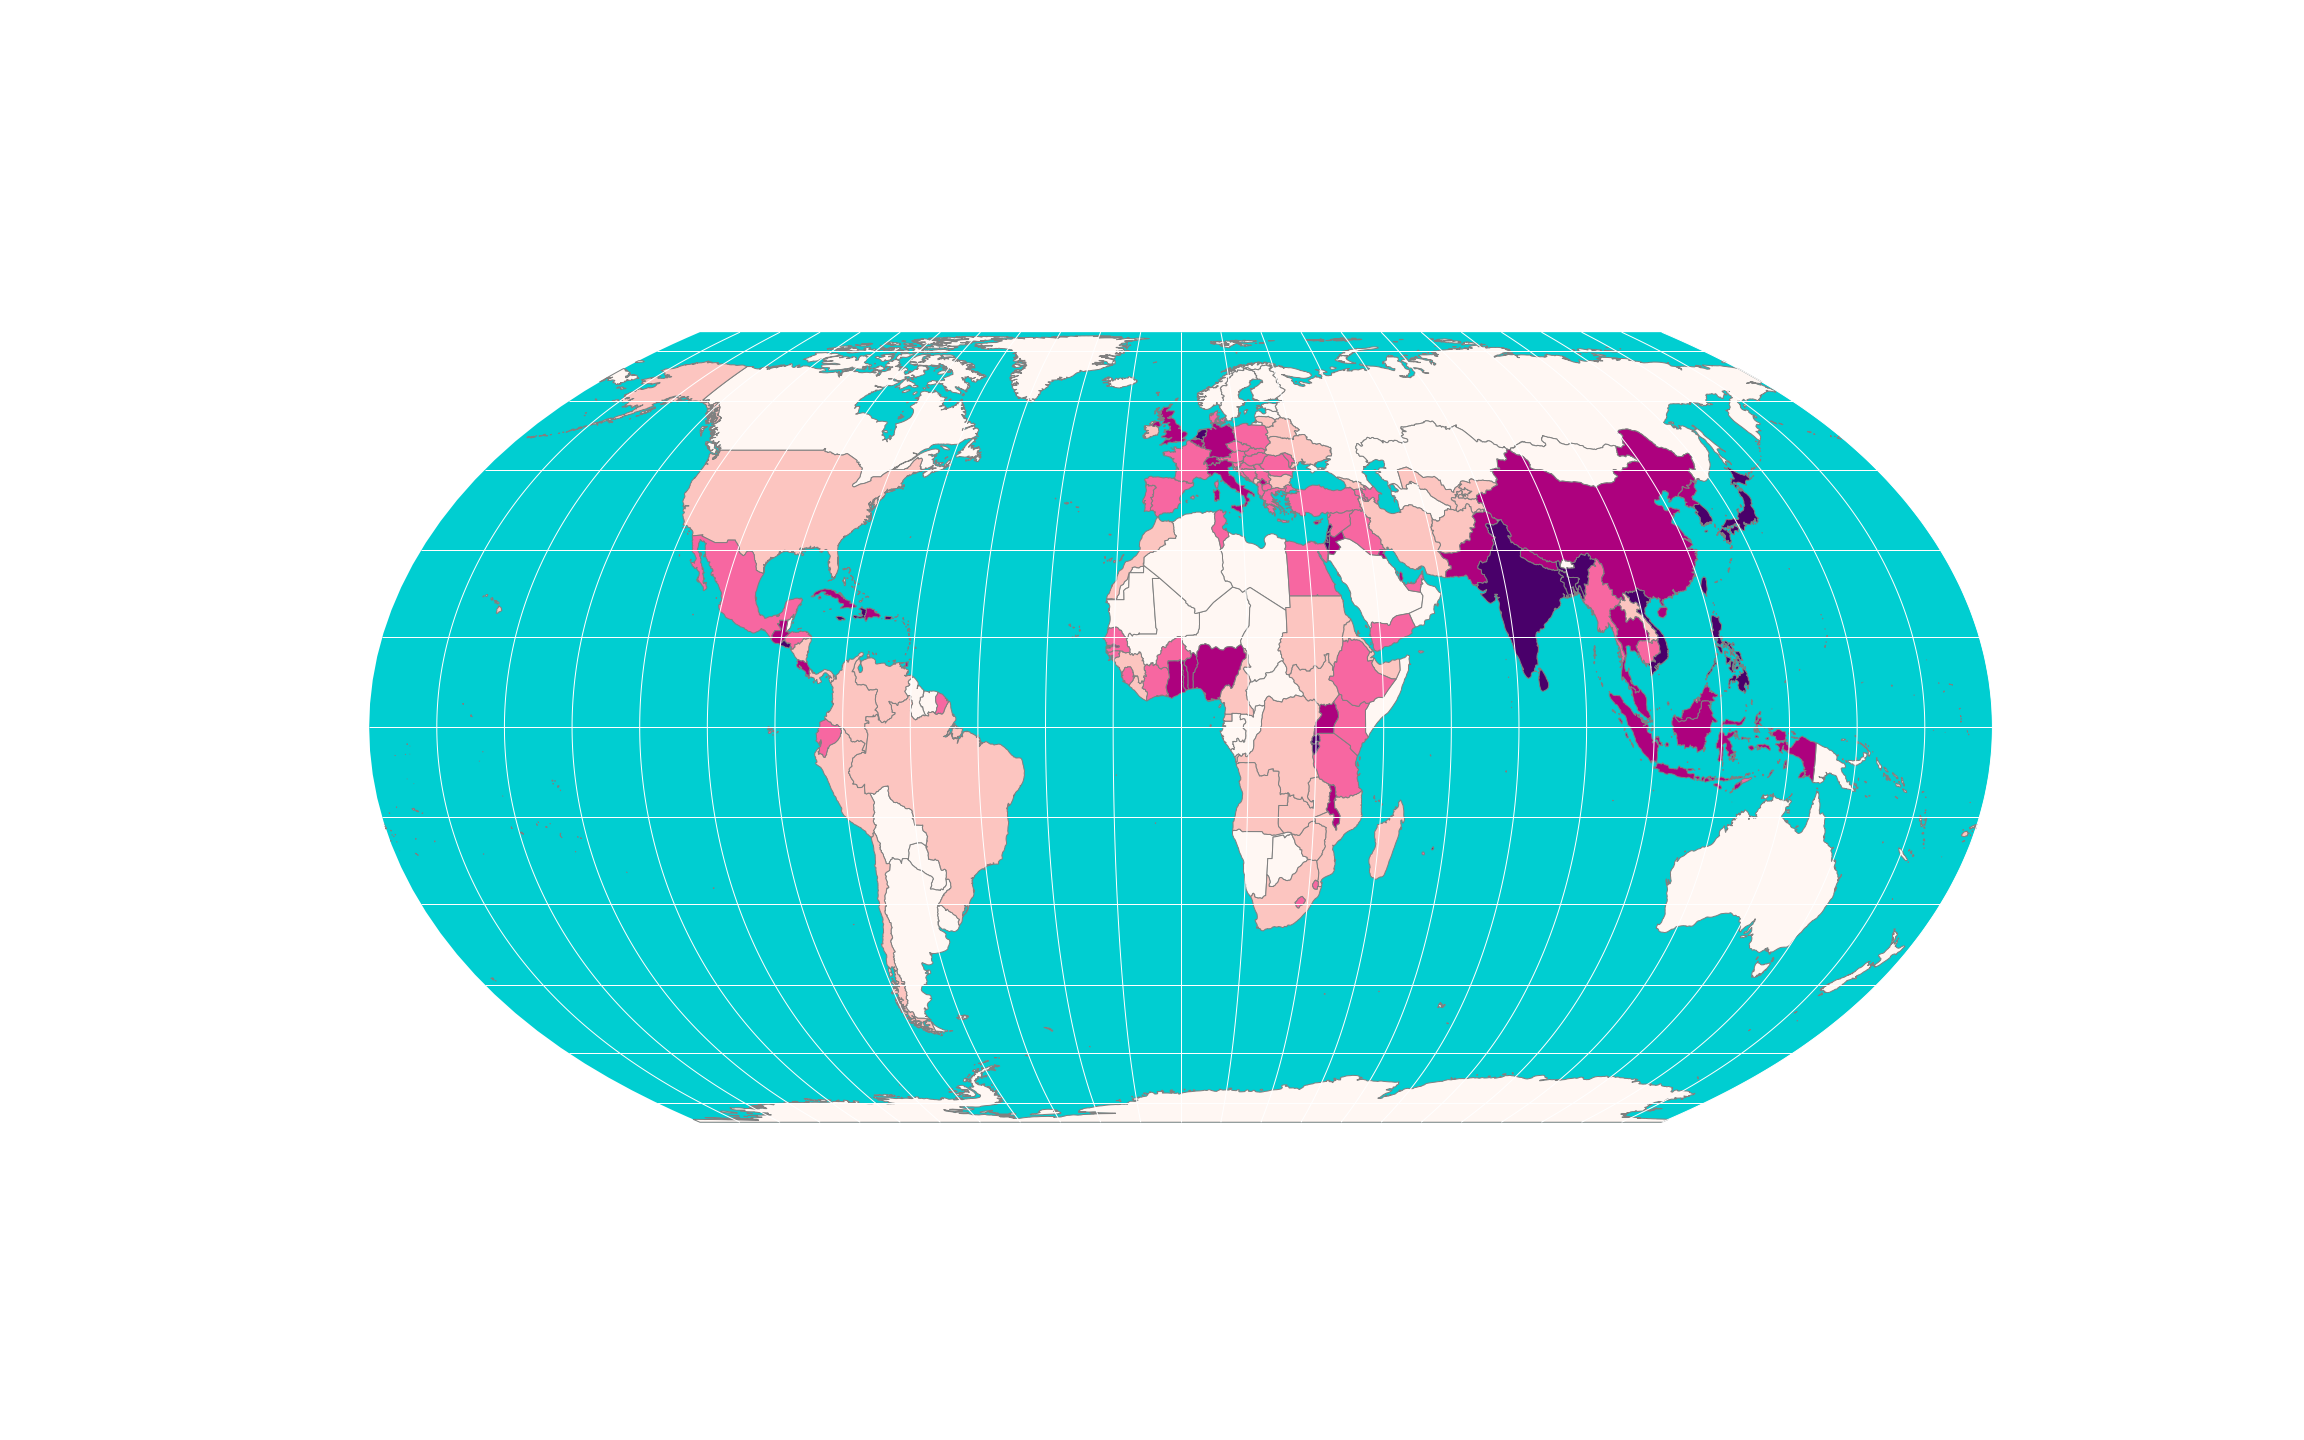
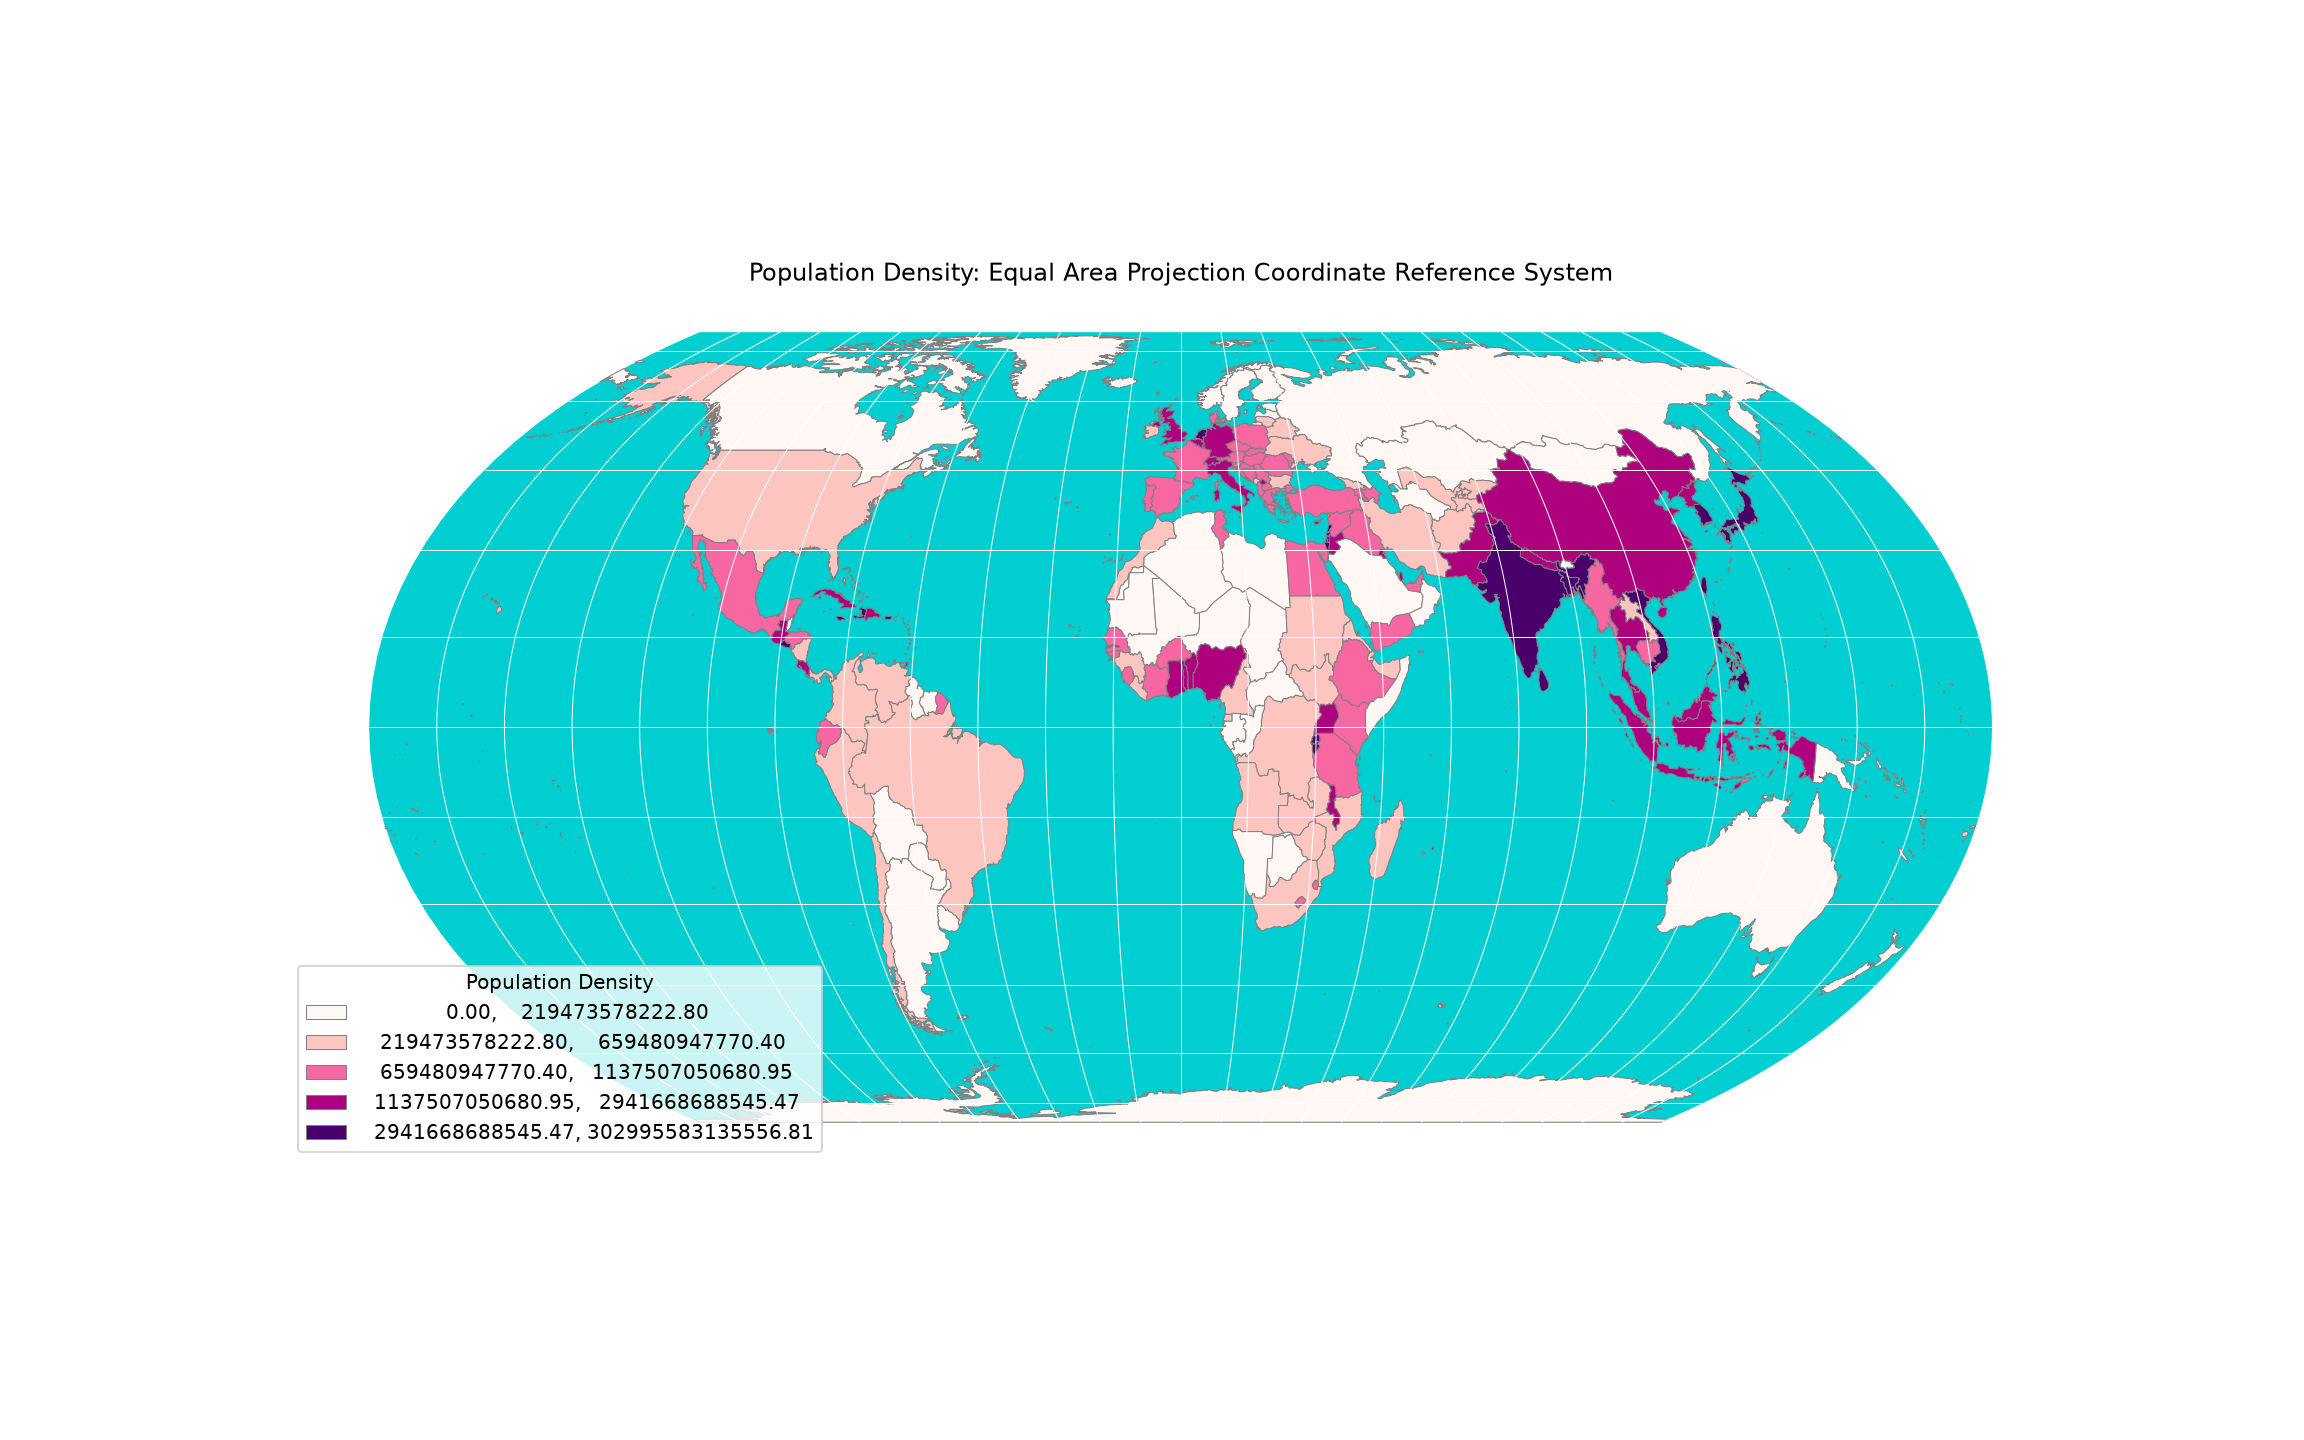
Legend and Title Added

diff --git a/week1/week1.py b/week1/week1.py
@@ -30,7 +30,11 @@ world.plot(								# plot the world dataset
     scheme = 'quantiles',	# specify how the colour map will be mapped to the values in POP_EST
     linewidth = 0.5,			# specify the line width for the country outlines
     edgecolor = 'gray',		# specify the line colour for the country outlines
-    )
+   legend = True,               #adding legend to map
+legend_kwds = {
+    'loc': 'lower left',
+    'title': 'Population Density'
+    } )
 
 # plot the graticule
 graticule.plot(
@@ -40,6 +44,8 @@ graticule.plot(
     )
 # turn off the visible axes on the map
 my_ax.axis('off')
+#Add map Title
+my_ax.set(title="Population Density: Equal Area Projection Coordinate Reference System")
 # save the result
 savefig('./out/1.png')
 print("done!")
